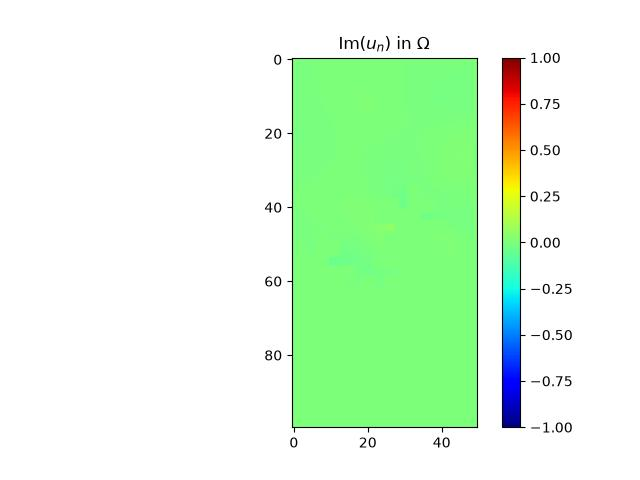
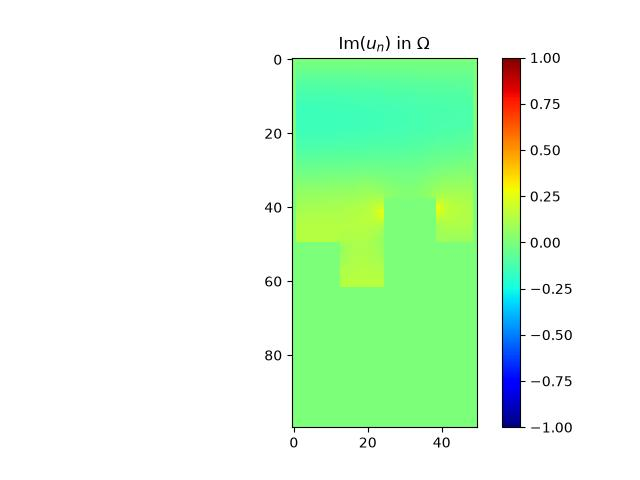
first working version of the optimization function

Changed region(s): [[0.4375, 0.125, 0.75, 0.3438], [0.4375, 0.375, 0.625, 0.625], [0.6562, 0.375, 0.75, 0.5]]

diff --git a/demo_control_polycopie2024.py b/demo_control_polycopie2024.py
@@ -29,10 +29,13 @@ def your_optimization_procedure(domain_omega, spacestep, omega, f, f_dir, f_neu,
 
     k = 0
     (M, N) = numpy.shape(domain_omega)
-    numb_iter = 100
+    numb_iter = 60
     energy = numpy.zeros((numb_iter+1, 1), dtype=numpy.float64)
+    S = numpy.sum(domain_omega == _env.NODE_ROBIN)
+    V_target = V_obj * S 
     def P_l(chi, l): 
-        return numpy.maximum(0, numpy.minimum(1, chi+l))
+        return numpy.where(domain_omega == _env.NODE_ROBIN, numpy.maximum(0, numpy.minimum(1, chi + l)), 0)
+
     while k < numb_iter and mu > 10**(-5):
         print('---- iteration number = ', k)
         print('1. computing solution of Helmholtz problem, i.e., u')
@@ -42,21 +45,32 @@ def your_optimization_procedure(domain_omega, spacestep, omega, f, f_dir, f_neu,
         print('3. computing objective function, i.e., energy')
         energy[k] = compute_objective_function(domain_omega, u, spacestep)
         print('4. computing parametric gradient')
-        grad = - numpy.real(Alpha*u*p)
+        #Alpha = preprocessing.set2zero(Alpha, domain_omega)
+        grad = numpy.zeros((M, N), dtype=numpy.float64)
+        for i in range(M):
+            for j in range(N):
+                if domain_omega[i, j] == _env.NODE_ROBIN:
+                    vals = [numpy.real(Alpha*u[a, b]*p[a, b])
+                            for (a, b) in ((i-1, j), (i+1, j), (i, j-1), (i, j+1))
+                            if 0 <= a < M and 0 <= b < N and domain_omega[a, b] == _env.NODE_INTERIOR]
+                    if vals:
+                        grad[i, j] = numpy.mean(vals)
         ene = energy[k]
         while ene >= energy[k] and mu > 10 ** -5:
             print('    a. computing gradient descent')
             l = 0 
             print('    b. computing projected gradient')
             chi_new = P_l(chi-mu*grad, l)
-            integral = numpy.abs(numpy.sum(chi_new)*spacestep**2 - V_obj*spacestep**2) ## a modifier si besoin 
-            while integral > 10**(-5):
-                if numpy.sum(chi_new)*(spacestep)**2 > V_obj*(spacestep)**2:
-                    l -= integral/2
+            S = numpy.sum(domain_omega == _env.NODE_ROBIN)
+            beta = V_obj*S
+            integral = numpy.abs(numpy.sum(chi_new) - beta) ## a modifier si besoin 
+            while integral > 10**(-3):
+                if numpy.sum(chi_new)*(spacestep)**2 > beta*(spacestep)**2:
+                    l -= integral/S
                 else: 
-                    l += integral/2
+                    l += integral/S
                 chi_new = P_l(chi-mu*grad, l)
-                integral = numpy.abs(numpy.sum(chi_new)*spacestep**2 - V_obj*spacestep**2) ## a modifier si besoin 
+                integral = numpy.abs(numpy.sum(chi_new) - beta) ## a modifier si besoin 
 
             print('    c. computing solution of Helmholtz problem, i.e., u')
             u = processing.solve_helmholtz(domain_omega, spacestep, omega, f, f_dir, f_neu, f_rob, beta_pde, alpha_pde, alpha_dir, beta_neu, beta_rob, Alpha*chi_new)
@@ -66,7 +80,6 @@ def your_optimization_procedure(domain_omega, spacestep, omega, f, f_dir, f_neu,
             if bool_a:
                 # The step is increased if the energy decreased
                 mu = mu * 1.1
-                chi_new = P_l(chi-mu*grad, l)
             else:
                 # The step is decreased is the energy increased
                 mu = mu / 2
@@ -75,7 +88,7 @@ def your_optimization_procedure(domain_omega, spacestep, omega, f, f_dir, f_neu,
         k += 1
 
     print('end. computing solution of Helmholtz problem, i.e., u')
-
+    energy[-1] = compute_objective_function(domain_omega, u, spacestep)
     return chi, energy[:k+1], u, grad
 
 
@@ -107,14 +120,14 @@ if __name__ == '__main__':
     # -- set parameters of the geometry
     N = 50  # number of points along x-axis
     M = 2 * N  # number of points along y-axis
-    level = 2 # level of the fractal
+    level = 1 # level of the fractal
     spacestep = 1.0 / N  # mesh size
 
     # -- set parameters of the partial differential equation
     kx = -1.0
     ky = -1.0
     wavenumber = numpy.sqrt(kx**2 + ky**2)  # wavenumber
-    wavenumber = 10.0
+    wavenumber = 5.0
 
     # ----------------------------------------------------------------------
     # -- Do not modify this cell, these are the values that you will be assessed against.
@@ -147,7 +160,7 @@ if __name__ == '__main__':
     chi = preprocessing.set2zero(chi, domain_omega)
 
     # -- define absorbing material
-    Alpha = 10.0 - 10.0 * 1j
+    Alpha = 15.0 - 25.0 * 1j
     # -- this is the function you have written during your project
     #import compute_alpha
     #Alpha = compute_alpha.compute_alpha(...)
@@ -181,7 +194,7 @@ if __name__ == '__main__':
     # chi, energy, u, grad = your_optimization_procedure(...)
     chi, energy, u, grad = your_optimization_procedure(domain_omega, spacestep, wavenumber, f, f_dir, f_neu, f_rob,
                         beta_pde, alpha_pde, alpha_dir, beta_neu, beta_rob, alpha_rob,
-                        Alpha, mu1, chi, V_0)
+                        Alpha, mu, chi, V_obj)
     # --- en of optimization
 
     chin = chi.copy()
